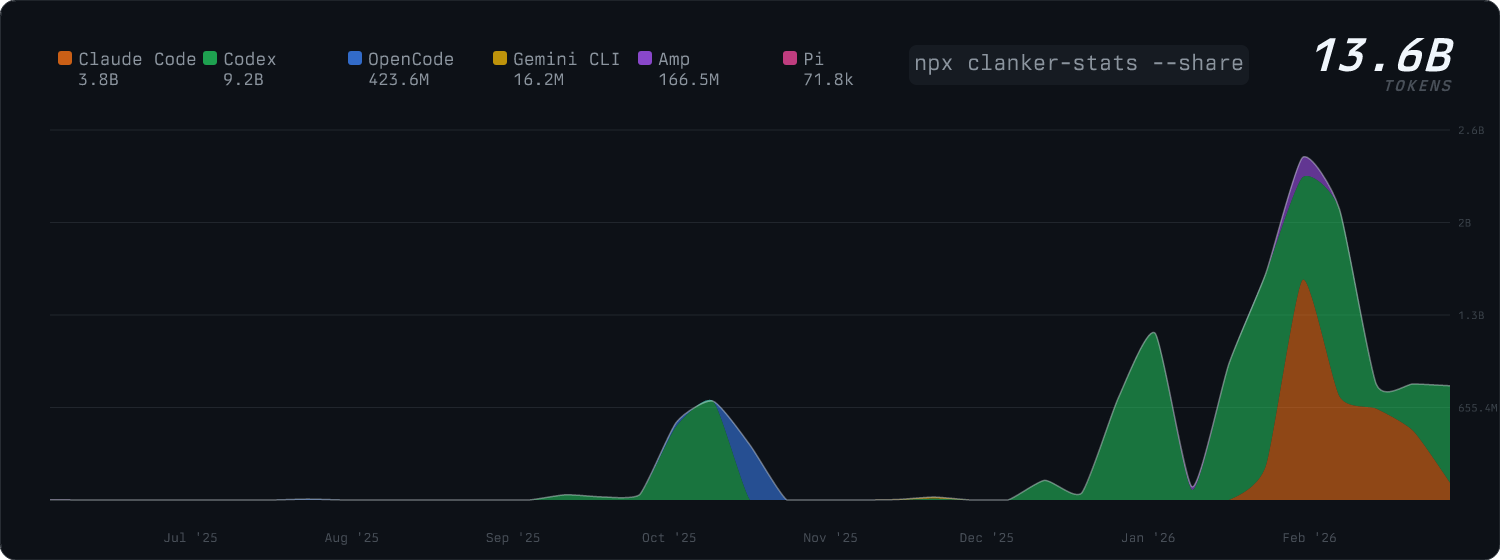
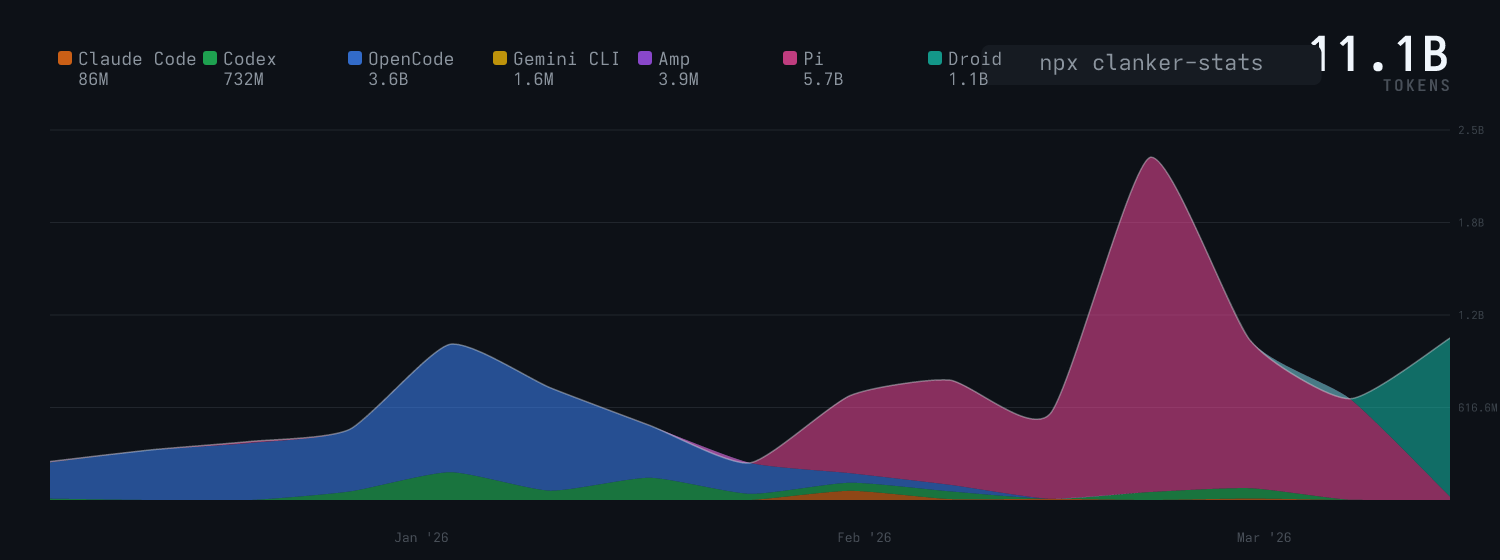
updates

diff --git a/cli.js b/cli.js
@@ -489,7 +489,7 @@ function renderChart(allDays, results, total, { unit = "TOKENS", cmd = "npx clan
   const baseline = pad.top + chartH
 
   let areas = ""
-  for (let t = results.length - 1; t >= 0; t--) {
+  for (let t = 0; t < results.length; t++) {
     const topPoints = Array.from({ length: numWeeks }, (_, w) => ({ x: toX(w), y: toY(stacked[t][w]) }))
     const botPoints = t === 0
       ? [{ x: toX(0), y: baseline }, { x: toX(numWeeks - 1), y: baseline }]

diff --git a/PLAN-grok-cli-usage-stats.md b/PLAN-grok-cli-usage-stats.md
@@ -1,0 +1,248 @@
+# Grok CLI Usage Stats Plan
+
+## Goal
+
+Add Grok Build CLI token usage to this `clanker-stats` fork by reusing the proven
+data-path and token-mapping behavior from `ccusage`, while keeping this project
+as the small single-file Node CLI it already is.
+
+This plan is intentionally scoped to token usage. `clanker-stats --hours`
+requires user-to-assistant turn timing, and Grok's local log has reliable
+inference timing but not the same clean message-pair records used by the current
+hours collectors. Add a no-op Grok hours collector in V1 so `--hours` keeps
+working without inventing a misleading duration metric.
+
+## Current Code Shape
+
+`clanker-stats` is a single executable module:
+
+- `cli.js`
+  - imports stdlib helpers, `fast-glob`, and `@resvg/resvg-js`
+  - one `collectX()` token collector per supported tool
+  - one `collectTimeX()` hours collector per supported tool
+  - `tools` registry drives collection, console output, legend order, and chart colors
+  - no test framework or script currently exists
+- `README.md`
+  - supported-tool table is the only docs surface that needs updating
+- `package.json`
+  - no scripts; dependencies are already enough for this work
+
+Existing local changes at plan time:
+
+- `cli.js` has an uncommitted chart stacking-order edit.
+- `package-lock.json`, `chart.png`, and `node_modules/` are also locally dirty/untracked.
+- The implementation should touch only `cli.js`, `README.md`, and optionally add a tiny test fixture/check file if desired.
+
+## Source Reference From `ccusage`
+
+Use these files from `/home/shuv/repos/ccusage` as the behavior reference:
+
+- `rust/crates/ccusage/src/adapter/grok/README.md`
+- `rust/crates/ccusage/src/adapter/grok/paths.rs`
+- `rust/crates/ccusage/src/adapter/grok/parser.rs`
+- `rust/crates/ccusage/src/adapter/grok/loader.rs`
+- `docs/guide/grok/index.md`
+
+Repository reference:
+
+- `[email redacted]:shuv1337/ccusage.git` at `989f01568c43056961161f16cdae59e2a8bf9d3a`
+- Upstream: `[email redacted]:ccusage/ccusage.git`
+
+Important behavior to copy, not the Rust architecture:
+
+- Grok home directory is `process.env.GROK_HOME || join(homedir(), ".grok")`.
+- Token log is `${grokHome}/logs/unified.jsonl`.
+- Session metadata is `${grokHome}/sessions/<url-encoded-cwd>/<session-id>/summary.json`.
+- Include only lines where `msg === "shell.turn.inference_done"`.
+- Require `sid`, `ts`, `ctx.loop_index`, `ctx.prompt_tokens`, `ctx.cached_prompt_tokens`, and `ctx.completion_tokens`.
+- Token mapping:
+  - input tokens: `max(prompt_tokens - cached_prompt_tokens, 0)`
+  - cache-read tokens: `cached_prompt_tokens`
+  - output tokens: `completion_tokens`
+  - reasoning tokens: `reasoning_tokens || 0`
+  - total counted by `clanker-stats`: input + cache-read + output + reasoning
+- Missing `logs/unified.jsonl` should produce an empty `Map`, not a warning or crash.
+- Unknown session metadata is fine; `clanker-stats` only needs date totals.
+- `ccusage` counts one row per inference, not one row per user turn. Preserve that behavior.
+
+Local sanity check at plan time:
+
+- `~/.grok/logs/unified.jsonl` exists and has `20083` lines.
+- Sample matching events have `ts`, `sid`, `msg: "shell.turn.inference_done"`, and `ctx` token fields.
+- `~/.grok/sessions/**/summary.json` exists and includes `info.id`, `info.cwd`, and `current_model_id`.
+
+## Implementation Tasks
+
+### 1. Add small Grok path helpers
+
+- [ ] In `cli.js`, keep helpers near the other top-level helpers.
+- [ ] Add `grokHome()`:
+
+```js
+function grokHome() {
+  return process.env.GROK_HOME?.trim() || join(home, ".grok")
+}
+```
+
+- [ ] No CLI flag for alternate Grok home in this fork. Existing collectors do not have per-tool flags, and `GROK_HOME` is enough.
+
+### 2. Add the token collector
+
+- [ ] Add `collectGrok()` near the other token collectors.
+- [ ] Stream `logs/unified.jsonl` with `createReadStream` + `createInterface`, matching `collectCodex()` and `collectDroid()` style.
+- [ ] Use `fg` only if session metadata becomes necessary later; for V1 token totals, unified log alone is enough.
+- [ ] Fast-skip lines that do not include `"shell.turn.inference_done"`.
+- [ ] Parse JSON defensively inside `try/catch`, matching the existing collector style.
+- [ ] Validate required shape before counting:
+
+```js
+obj.msg === "shell.turn.inference_done"
+obj.sid
+obj.ts
+obj.ctx?.loop_index != null
+obj.ctx?.prompt_tokens != null
+obj.ctx?.cached_prompt_tokens != null
+obj.ctx?.completion_tokens != null
+```
+
+- [ ] Calculate tokens:
+
+```js
+const input = Math.max((ctx.prompt_tokens || 0) - (ctx.cached_prompt_tokens || 0), 0)
+const tokens = input +
+  (ctx.cached_prompt_tokens || 0) +
+  (ctx.completion_tokens || 0) +
+  (ctx.reasoning_tokens || 0)
+```
+
+- [ ] Add positive totals by `isoToDate(obj.ts)`.
+- [ ] If `unified.jsonl` does not exist or cannot be opened because the directory is absent, return an empty `Map`.
+- [ ] Let unexpected read errors be caught by `main()` and shown as `Grok: skipped (...)`, consistent with existing tools.
+
+Expected shape:
+
+```js
+async function collectGrok() {
+  const counts = new Map()
+  const logPath = join(grokHome(), "logs", "unified.jsonl")
+  try {
+    const rl = createInterface({ input: createReadStream(logPath), crlfDelay: Infinity })
+    for await (const line of rl) {
+      if (!line.includes('"shell.turn.inference_done"')) continue
+      try {
+        const obj = JSON.parse(line)
+        const ctx = obj.ctx
+        if (obj.msg !== "shell.turn.inference_done" || !obj.sid || !obj.ts || !ctx) continue
+        if (ctx.loop_index == null || ctx.prompt_tokens == null || ctx.cached_prompt_tokens == null || ctx.completion_tokens == null) continue
+        const input = Math.max((ctx.prompt_tokens || 0) - (ctx.cached_prompt_tokens || 0), 0)
+        const tokens = input + (ctx.cached_prompt_tokens || 0) + (ctx.completion_tokens || 0) + (ctx.reasoning_tokens || 0)
+        if (tokens > 0) add(counts, isoToDate(obj.ts), tokens)
+      } catch {}
+    }
+  } catch (e) {
+    if (e?.code !== "ENOENT") throw e
+  }
+  return counts
+}
+```
+
+### 3. Add a no-op hours collector
+
+- [ ] Add `collectTimeGrok()`.
+- [ ] Return `new Map()` for V1.
+- [ ] Add a short comment explaining the ceiling:
+
+```js
+async function collectTimeGrok() {
+  // ponytail: Grok logs inference durations, not clean user->assistant turns; add hours when a stable turn boundary is confirmed.
+  return new Map()
+}
+```
+
+Do not sum `model_elapsed_ms` or `elapsed_since_turn_start_ms` for `--hours` in V1. That would measure model runtime or loop runtime, while the existing chart says "hours" and approximates wall-clock user-to-last-assistant turn time.
+
+### 4. Register Grok in the chart
+
+- [ ] Add one entry to `tools`.
+- [ ] Place it near the other xAI-era coding agents; after `Pi` or before `Mistral Vibe` is fine.
+- [ ] Pick a color that does not collide with existing legend colors. Suggested: `#f0f6fc` is too close to the total line, so use `#94a3b8` or `#06b6d4`.
+
+```js
+{ name: "Grok", collect: collectGrok, collectTime: collectTimeGrok, color: "#06b6d4" },
+```
+
+### 5. Update docs
+
+- [ ] In `README.md`, add Grok to the supported tools table:
+
+```md
+| Grok CLI | `~/.grok/logs/unified.jsonl` |
+```
+
+- [ ] Mention `GROK_HOME` only if there is already a docs section for env vars. There is not, so skip it unless implementation adds a short note.
+
+### 6. Add the smallest useful check
+
+There is no test framework. Avoid adding one for this feature.
+
+- [ ] Run syntax validation:
+
+```sh
+node --check cli.js
+```
+
+- [ ] Run the CLI against local data:
+
+```sh
+node cli.js
+```
+
+- [ ] Confirm output includes a `Grok: ... tokens` line when `~/.grok/logs/unified.jsonl` exists.
+- [ ] Confirm `chart.png` is generated.
+- [ ] Run hours mode and confirm Grok does not crash it:
+
+```sh
+node cli.js --hours
+```
+
+- [ ] If a deterministic check is desired without a test framework, add a temporary manual fixture command in the PR notes instead of committing fixture machinery:
+
+```sh
+tmp=$(mktemp -d)
+mkdir -p "$tmp/logs"
+cat > "$tmp/logs/unified.jsonl" <<'JSONL'
+{"ts":"2026-06-26T10:00:00.000Z","sid":"s1","msg":"shell.turn.inference_done","ctx":{"loop_index":1,"prompt_tokens":100,"cached_prompt_tokens":30,"completion_tokens":20,"reasoning_tokens":5}}
+{"ts":"2026-06-26T11:00:00.000Z","sid":"s1","msg":"shell.turn.prompt_received","ctx":{}}
+JSONL
+GROK_HOME="$tmp" node cli.js
+```
+
+Expected Grok fixture total: `155 tokens`.
+
+## Edge Cases
+
+- [ ] Missing `~/.grok` or missing `logs/unified.jsonl`: collector returns empty counts.
+- [ ] Malformed JSONL line: skip it.
+- [ ] `cached_prompt_tokens > prompt_tokens`: input is `0`, cache-read still counts.
+- [ ] Missing required token fields: skip the line.
+- [ ] Missing `reasoning_tokens`: treat as `0`.
+- [ ] Multiple inference loops for one user prompt: count every inference line, matching `ccusage`.
+- [ ] `GROK_HOME` with whitespace only: ignore it and use `~/.grok`.
+
+## Non-Goals
+
+- [ ] Do not port `ccusage` session reports, pricing, model names, or project grouping.
+- [ ] Do not parse `summary.json` in V1. It is useful for session/project/model reports, but this chart only needs date totals.
+- [ ] Do not add a test framework.
+- [ ] Do not add a `--grok-home` flag unless the project later grows per-tool flags.
+- [ ] Do not implement Grok hours until there is a validated turn boundary equivalent to the other tools.
+
+## Done Criteria
+
+- [ ] `cli.js` has `collectGrok()` and `collectTimeGrok()`.
+- [ ] `tools` includes Grok.
+- [ ] `README.md` lists Grok CLI and its data source.
+- [ ] `node --check cli.js` passes.
+- [ ] `node cli.js` prints a Grok token total on a machine with Grok data.
+- [ ] `node cli.js --hours` still completes.
+- [ ] No unrelated local changes are reverted or reformatted.